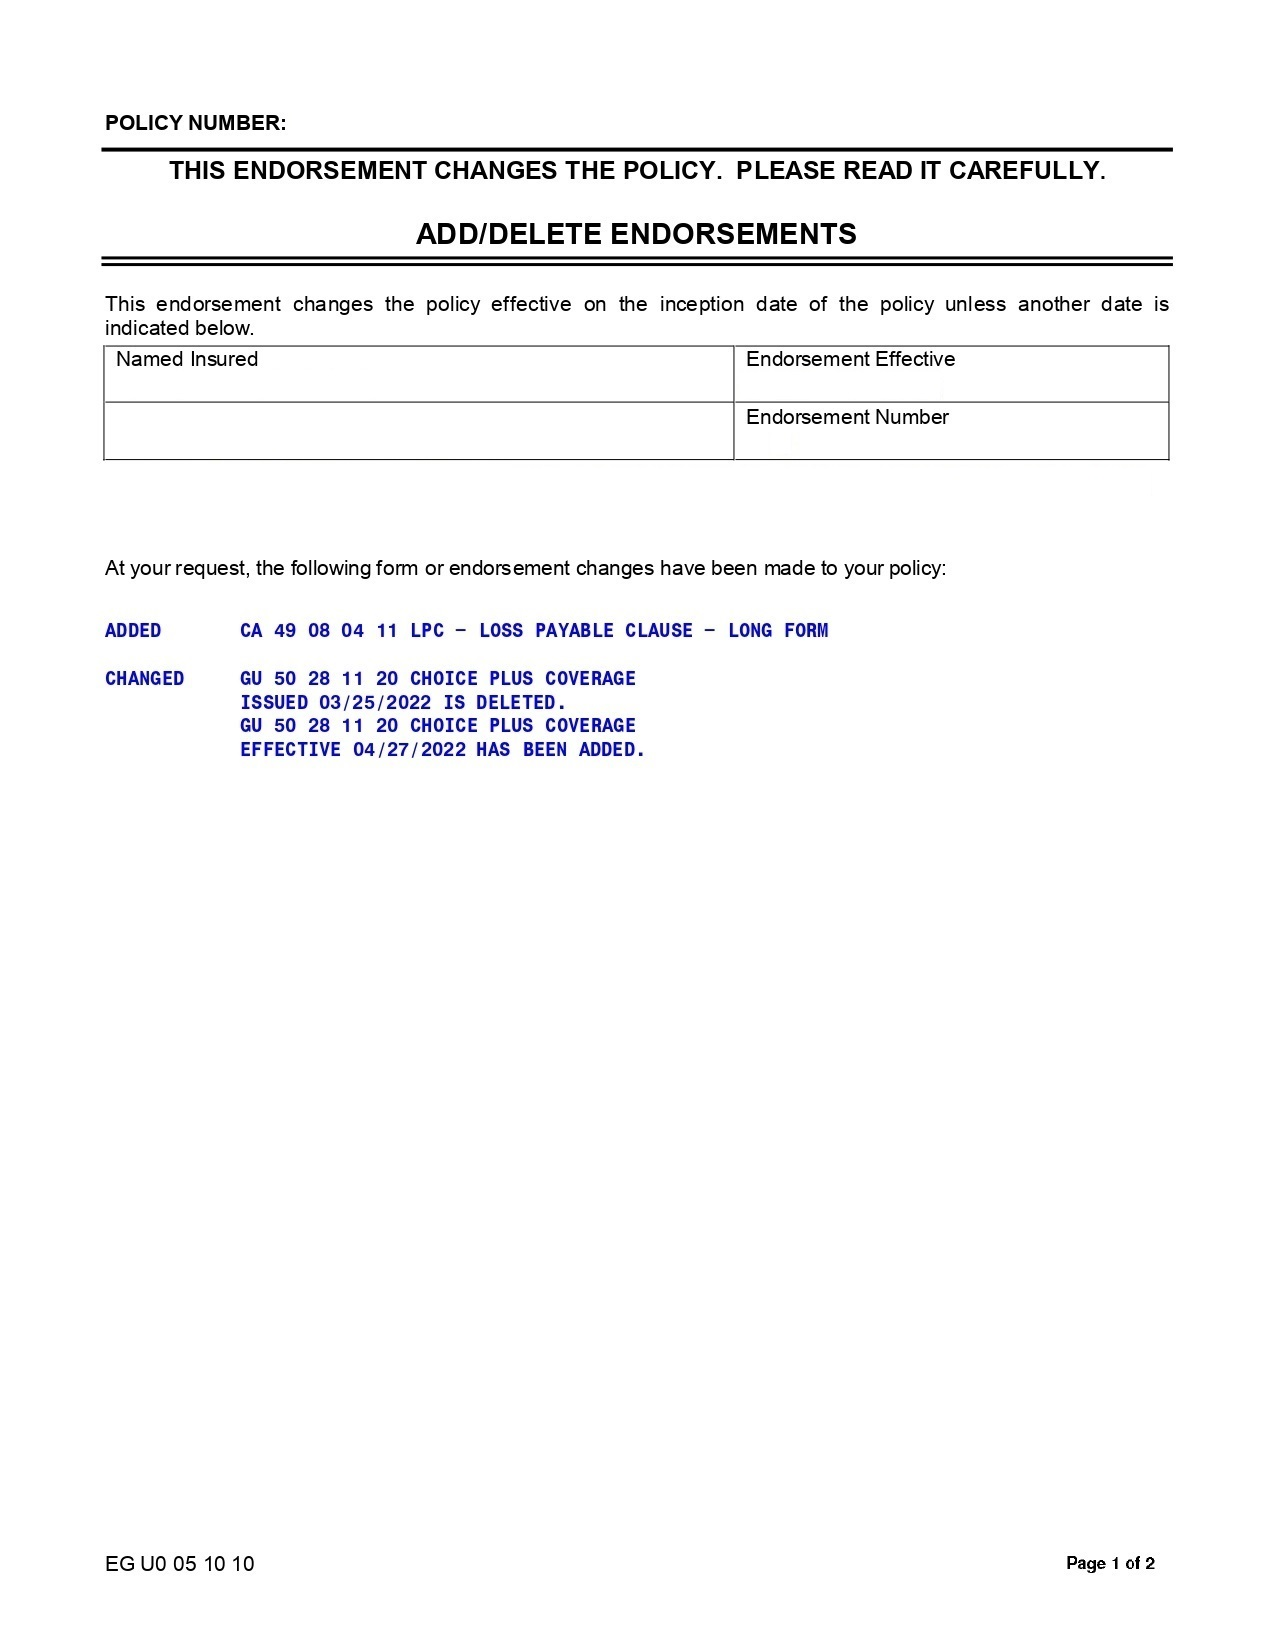
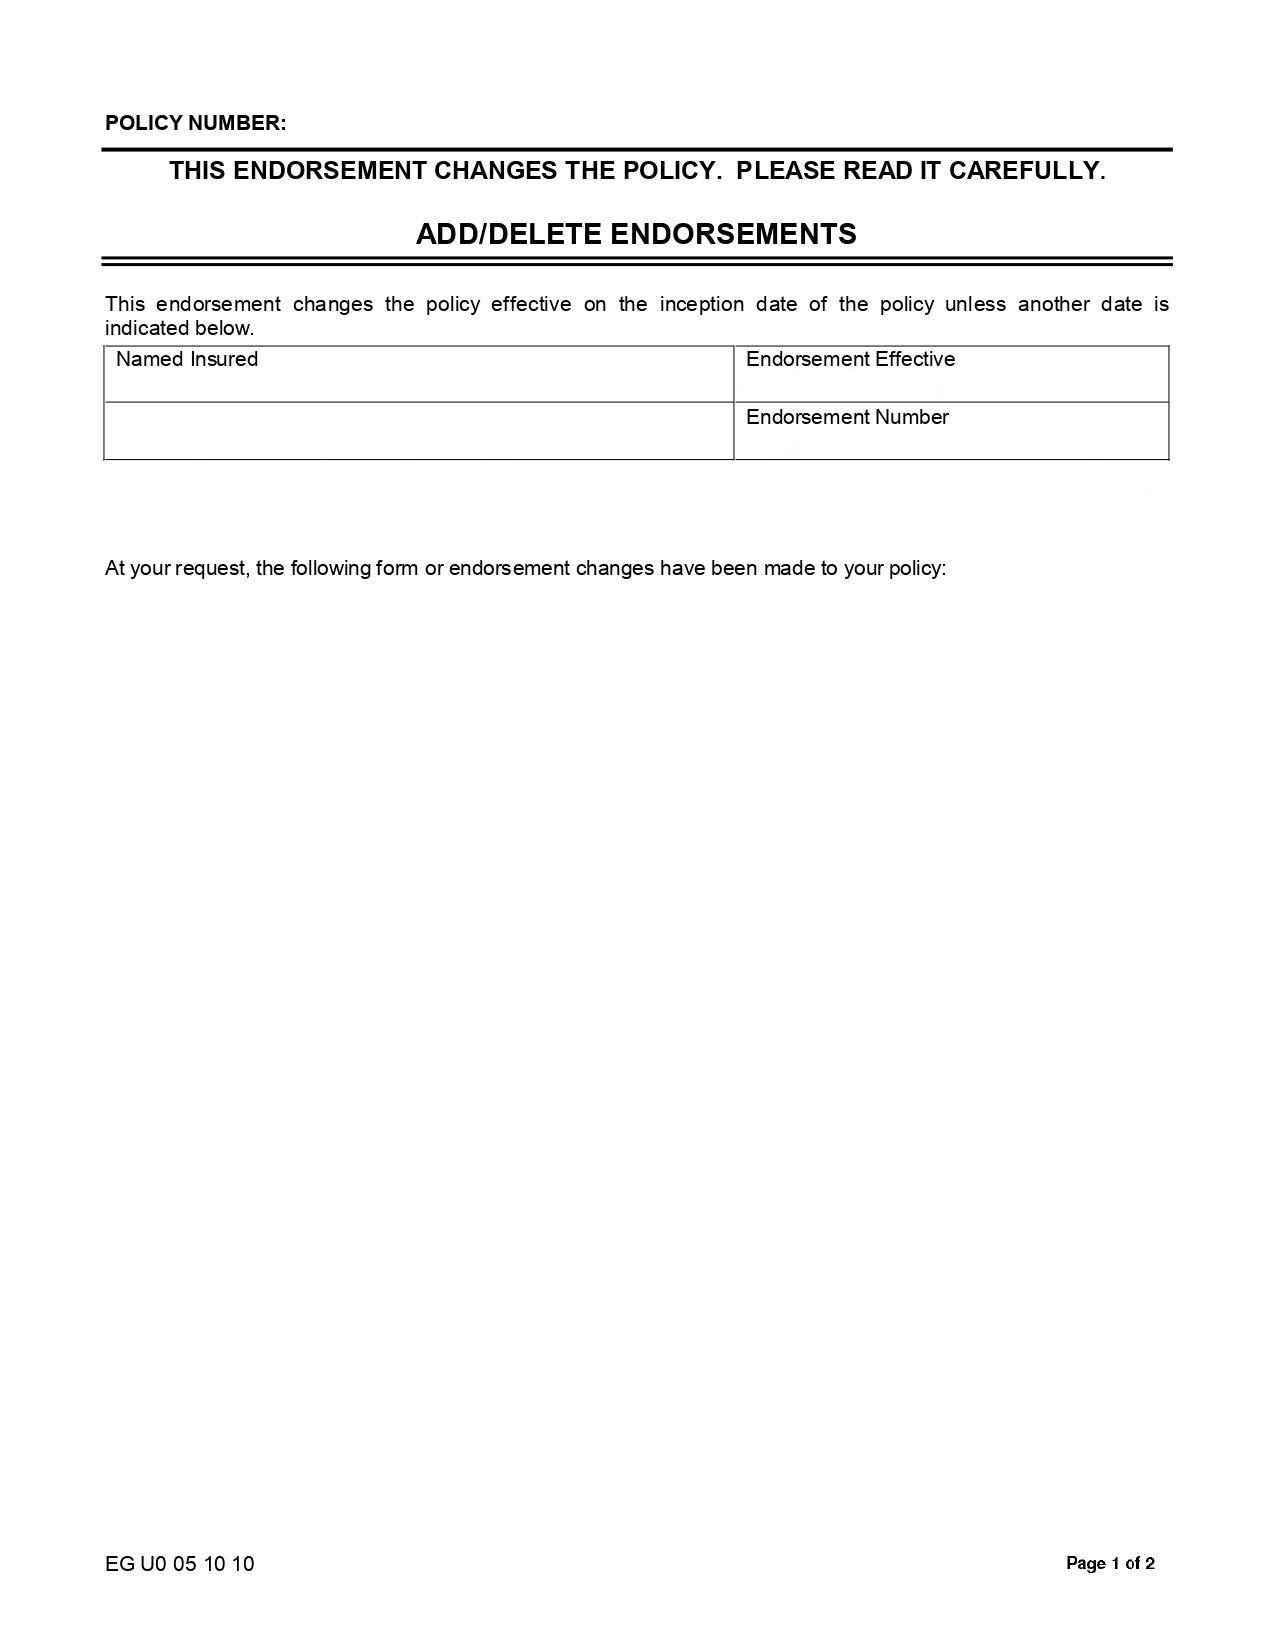
Retoques estéticos

Changed region(s): [[0.1835, 0.3709, 0.5506, 0.4636], [0.0918, 0.3709, 0.1529, 0.4327], [0.5812, 0.3709, 0.6424, 0.4018]]

diff --git a/index.html b/index.html
@@ -241,6 +241,13 @@
             doc.text(127.5,80.5, "4");
             doc.text(93.5,88.5, "AAA Insurance TRANS INS SERVS INC 1012");
 
+            doc.setFontSize(11);
+            doc.text(18,115, "ADDED");
+            doc.text(38.5,115, "CA 49 08 04 11 LPC − LOSS PAYABLE CLAUSE − LONG FORM");
+            doc.text(18,123, "CHANGED")
+            doc.text(38.5,123, "GU 50 28 11 20 CHOICE PLUS COVERAGE\nISSUED 03/25/2022 IS DELETED\nGU 50 28 11 20 CHOICE PLUS COVERAGE\nEFFECTIVE 04/27/2022 HAS BEEN ADDED.");
+            
+
             //Página 5
             doc.addPage();
             img.src = 'Imagenes/MCP50159C-Endorsement-276051507_page-0007.jpg'
